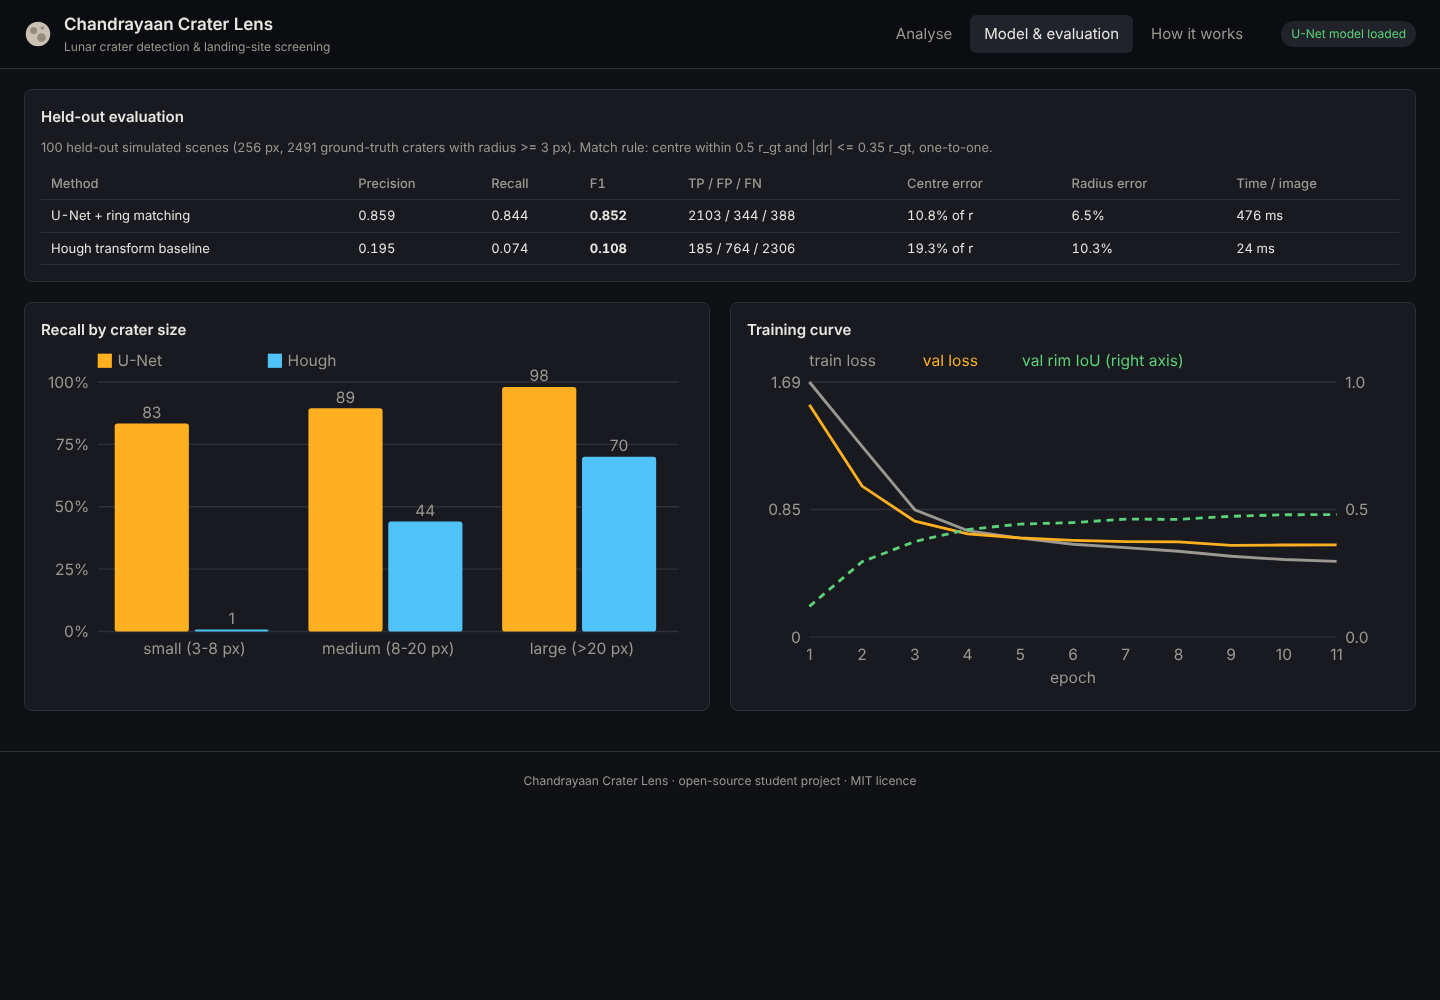
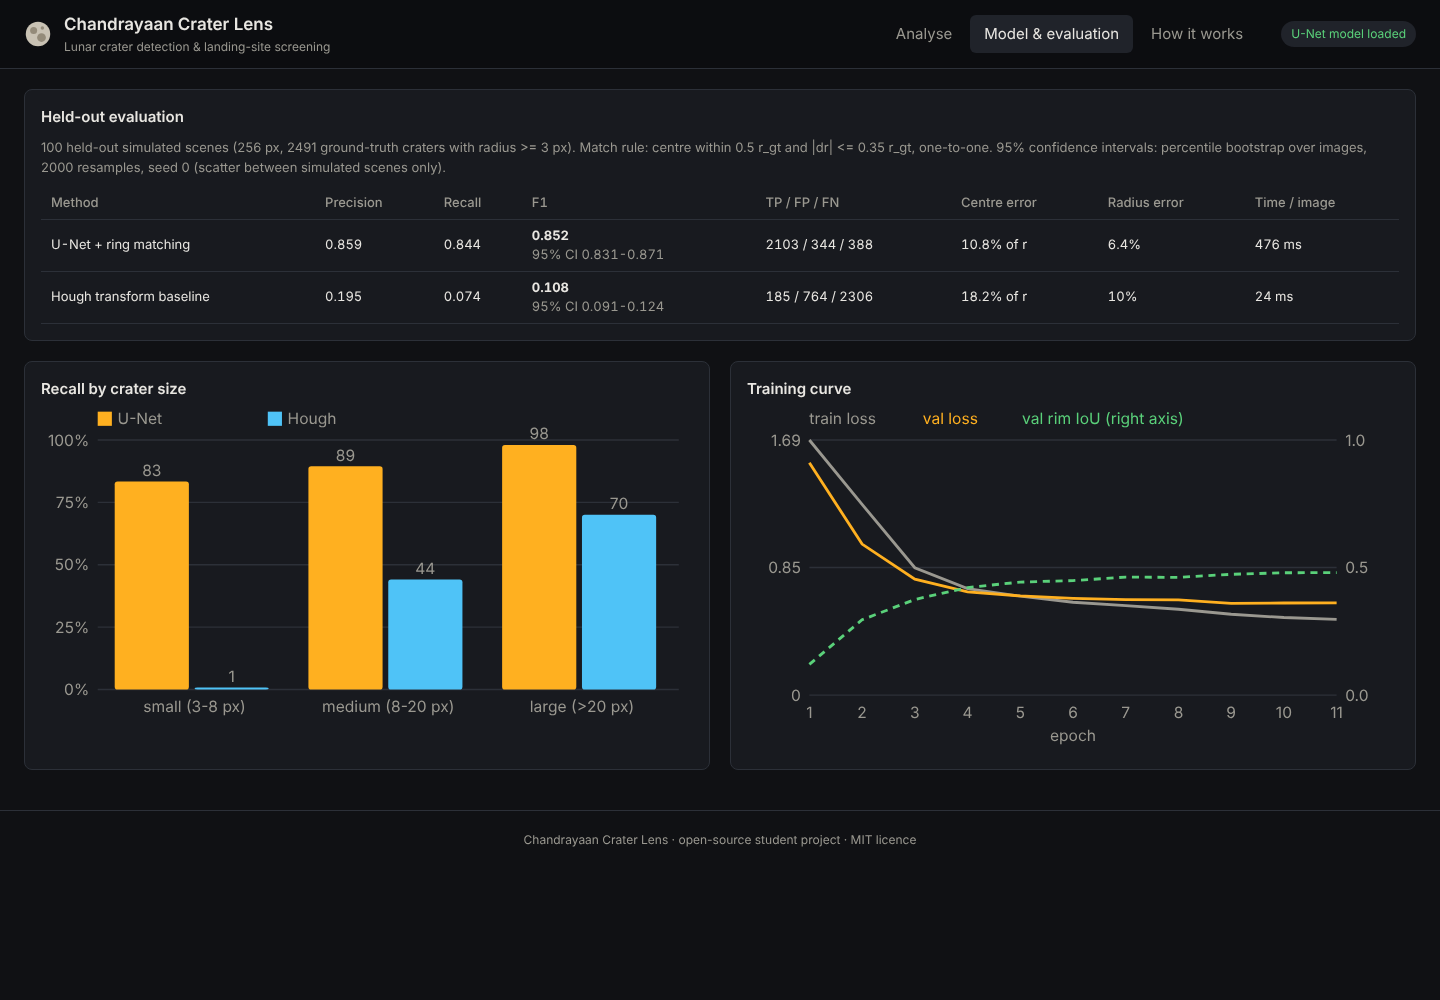
Audit evaluation metrics: add confidence intervals, val-split evaluation, pooled errors
- Re-ran the 100-scene held-out evaluation: TP/FP/FN, precision, recall, F1 and
  recall-by-size reproduce models/metrics.json exactly.
- metrics.summarize: centre/radius errors are now averaged over all matched craters
  (TP-weighted) instead of a mean of per-image means. U-Net 10.8%/6.5% -> 10.75%/6.44%,
  Hough 19.3%/10.3% -> 18.2%/10.0%. P/R/F1 unchanged.
- evaluate: 95% percentile-bootstrap CIs over images for P/R/F1; --split val and
  --min-confidence so thresholds can be checked on validation seeds, never on test.
- metrics.json regenerated (timings kept from the original run because the shared
  machine was heavily loaded during the re-run).
- README: CI column, threshold re-check table on validation scenes, Hough re-tuning
  check, radius-based size bins, timing caveat, and an in-distribution limitation.
- Model page shows the F1 CI; screenshot refreshed. 2 new tests (53 total).

Claude-Session: https://claude.ai/code/session_013tpD16K5jFZFsLFUPWL8Nk

diff --git a/app/static/app.js b/app/static/app.js
@@ -264,11 +264,11 @@ async function loadModel() {
     if (!ev) { $("#eval-desc").textContent = "No evaluation report yet. Run: python -m lunarcrater evaluate"; }
     else {
       const t = ev.test_set;
-      $("#eval-desc").textContent = `${t.images} held-out simulated scenes (${t.image_size_px} px, ${t.ground_truth_craters} ground-truth craters with radius >= ${t.min_radius_px} px). Match rule: ${t.match_rule}.`;
+      $("#eval-desc").textContent = `${t.images} held-out simulated scenes (${t.image_size_px} px, ${t.ground_truth_craters} ground-truth craters with radius >= ${t.min_radius_px} px). Match rule: ${t.match_rule}.${t.ci95 ? " 95% confidence intervals: " + t.ci95 + " (scatter between simulated scenes only)." : ""}`;
       const names = { unet: "U-Net + ring matching", hough: "Hough transform baseline" };
       const rows = Object.entries(ev.methods);
       $("#eval-table").innerHTML = "<thead><tr><th>Method</th><th>Precision</th><th>Recall</th><th>F1</th><th>TP / FP / FN</th><th>Centre error</th><th>Radius error</th><th>Time / image</th></tr></thead><tbody>" +
-        rows.map(([k, m]) => `<tr><td>${names[k] || k}</td><td>${fmt(m.precision, 3)}</td><td>${fmt(m.recall, 3)}</td><td><strong>${fmt(m.f1, 3)}</strong></td><td>${m.tp} / ${m.fp} / ${m.fn}</td><td>${m.mean_frac_err_xy === null ? "-" : fmt(m.mean_frac_err_xy * 100, 1) + "% of r"}</td><td>${m.mean_frac_err_r === null ? "-" : fmt(m.mean_frac_err_r * 100, 1) + "%"}</td><td>${fmt(m.mean_inference_ms, 0)} ms</td></tr>`).join("") + "</tbody>";
+        rows.map(([k, m]) => `<tr><td>${names[k] || k}</td><td>${fmt(m.precision, 3)}</td><td>${fmt(m.recall, 3)}</td><td><strong>${fmt(m.f1, 3)}</strong>${m.ci95 ? `<br><span class="muted">95% CI ${fmt(m.ci95.f1[0], 3)}-${fmt(m.ci95.f1[1], 3)}</span>` : ""}</td><td>${m.tp} / ${m.fp} / ${m.fn}</td><td>${m.mean_frac_err_xy === null ? "-" : fmt(m.mean_frac_err_xy * 100, 1) + "% of r"}</td><td>${m.mean_frac_err_r === null ? "-" : fmt(m.mean_frac_err_r * 100, 1) + "%"}</td><td>${fmt(m.mean_inference_ms, 0)} ms</td></tr>`).join("") + "</tbody>";
       renderRecall(rows);
     }
     renderTraining(d.training_history);

diff --git a/lunarcrater/evaluate.py b/lunarcrater/evaluate.py
@@ -1,4 +1,11 @@
-"""Evaluate detectors on held-out synthetic scenes (seeds never used in training)."""
+"""Evaluate detectors on held-out synthetic scenes (seeds never used in training).
+
+``split="test"`` (default) scores the test seeds that back ``models/metrics.json``.
+``split="val"`` scores validation seeds instead; use it to choose thresholds so the test
+scenes are never used for tuning.  Precision, recall and F1 come with 95 % bootstrap
+confidence intervals (images resampled with replacement), which describe the scatter
+between simulated scenes only, not the gap between simulated and real images.
+"""
 from __future__ import annotations
 
 import json
@@ -10,22 +17,52 @@ import numpy as np
 from .detect import CraterDetector, R_MIN
 from .metrics import match_craters, summarize
 from .synthetic import generate_scene
-from .train import TEST_SEED0
+from .train import TEST_SEED0, VAL_SEED0
 
-SIZE_BINS = [("small (3-8 px)", 3, 8), ("medium (8-20 px)", 8, 20), ("large (>20 px)", 20, 1e9)]
+SIZE_BINS = [("small (3-8 px)", 3, 8), ("medium (8-20 px)", 8, 20), ("large (>20 px)", 20, 1e9)]  # crater radius
+SPLITS = {"test": TEST_SEED0, "val": VAL_SEED0}
 
 
-def evaluate(n_images: int = 100, size: int = 256, methods=("unet", "hough"), detector: CraterDetector | None = None, log=print) -> dict:
+def bootstrap_ci(per_img: list[dict], n_boot: int = 2000, seed: int = 0) -> dict:
+    """95 % percentile bootstrap intervals for pooled precision, recall and F1 (resampling images)."""
+    tp = np.array([r["tp"] for r in per_img], float)
+    fp = np.array([r["fp"] for r in per_img], float)
+    fn = np.array([r["fn"] for r in per_img], float)
+    rng = np.random.default_rng(seed)
+    idx = rng.integers(0, len(per_img), size=(n_boot, len(per_img)))
+    T, P, N = tp[idx].sum(1), fp[idx].sum(1), fn[idx].sum(1)
+    with np.errstate(invalid="ignore", divide="ignore"):
+        prec = np.where(T + P > 0, T / (T + P), 0.0)
+        rec = np.where(T + N > 0, T / (T + N), 0.0)
+        f1 = np.where(prec + rec > 0, 2 * prec * rec / (prec + rec), 0.0)
+    return {k: [round(float(np.percentile(v, 2.5)), 4), round(float(np.percentile(v, 97.5)), 4)] for k, v in (("precision", prec), ("recall", rec), ("f1", f1))}
+
+
+def evaluate(
+    n_images: int = 100,
+    size: int = 256,
+    methods=("unet", "hough"),
+    detector: CraterDetector | None = None,
+    split: str = "test",
+    min_confidence: float = 0.6,
+    log=print,
+) -> dict:
+    if split not in SPLITS:
+        raise ValueError(f"split must be one of {tuple(SPLITS)}")
+    seed0 = SPLITS[split]
     det = detector or CraterDetector()
-    scenes = [generate_scene(size, seed=TEST_SEED0 + i) for i in range(n_images)]
+    scenes = [generate_scene(size, seed=seed0 + i) for i in range(n_images)]
     report: dict = {
         "test_set": {
+            "split": split,
             "images": n_images,
             "image_size_px": size,
-            "seed_range": [TEST_SEED0, TEST_SEED0 + n_images - 1],
+            "seed_range": [seed0, seed0 + n_images - 1],
             "ground_truth_craters": int(sum(len(s.craters) for s in scenes)),
             "min_radius_px": R_MIN,
             "match_rule": "centre within 0.5 r_gt and |dr| <= 0.35 r_gt, one-to-one",
+            "min_confidence": min_confidence,
+            "ci95": "percentile bootstrap over images, 2000 resamples, seed 0",
         },
         "methods": {},
     }
@@ -37,7 +74,7 @@ def evaluate(n_images: int = 100, size: int = 256, methods=("unet", "hough"), de
         bins = {name: [0, 0] for name, _, _ in SIZE_BINS}  # found, total
         for sc in scenes:
             t = time.perf_counter()
-            pred, _ = det.detect(sc.image, method=method)
+            pred, _ = det.detect(sc.image, method=method, min_confidence=min_confidence)
             times.append(time.perf_counter() - t)
             res = match_craters(pred, sc.craters)
             per_img.append(res)
@@ -48,6 +85,7 @@ def evaluate(n_images: int = 100, size: int = 256, methods=("unet", "hough"), de
                         bins[name][1] += 1
                         bins[name][0] += int(j in matched_gt)
         summary = summarize(per_img)
+        summary["ci95"] = bootstrap_ci(per_img)
         summary["recall_by_size"] = {k: (round(f / t, 4) if t else None) for k, (f, t) in bins.items()}
         summary["mean_inference_ms"] = round(1000 * float(np.mean(times)), 1)
         report["methods"][method] = summary

diff --git a/lunarcrater/cli.py b/lunarcrater/cli.py
@@ -76,7 +76,9 @@ def main(argv: list[str] | None = None) -> int:
     e = sub.add_parser("evaluate", help="evaluate detectors on held-out synthetic scenes")
     e.add_argument("--images", type=int, default=100)
     e.add_argument("--model", default=None)
-    e.add_argument("--out", default=str(ROOT / "models" / "metrics.json"))
+    e.add_argument("--split", choices=["test", "val"], default="test", help="val = validation seeds, for choosing thresholds")
+    e.add_argument("--min-confidence", type=float, default=0.6)
+    e.add_argument("--out", default=None, help="default: models/metrics.json (test) or models/metrics_val.json (val)")
 
     d = sub.add_parser("detect", help="detect craters in an image (PNG/JPG/TIFF or PDS4 .xml label)")
     d.add_argument("image")
@@ -106,9 +108,10 @@ def main(argv: list[str] | None = None) -> int:
     if args.cmd == "evaluate":
         from .evaluate import evaluate, write_report
 
-        rep = evaluate(n_images=args.images, detector=CraterDetector(args.model))
-        write_report(rep, args.out)
-        print(f"report written to {args.out}")
+        out = args.out or str(ROOT / "models" / ("metrics.json" if args.split == "test" else "metrics_val.json"))
+        rep = evaluate(n_images=args.images, detector=CraterDetector(args.model), split=args.split, min_confidence=args.min_confidence)
+        write_report(rep, out)
+        print(f"report written to {out}")
         return 0
 
     if args.cmd == "detect":

diff --git a/lunarcrater/metrics.py b/lunarcrater/metrics.py
@@ -60,8 +60,11 @@ def summarize(results: list[dict]) -> dict:
     precision = tp / (tp + fp) if tp + fp else 0.0
     recall = tp / (tp + fn) if tp + fn else 0.0
     f1 = 2 * precision * recall / (precision + recall) if precision + recall else 0.0
-    exy = [r["frac_err_xy"] for r in results if r["frac_err_xy"] is not None]
-    er = [r["frac_err_r"] for r in results if r["frac_err_r"] is not None]
+    # Localisation errors are averaged over all matched craters (each image's mean is
+    # weighted by its number of matches), not as a mean of per-image means.
+    matched = [r for r in results if r["tp"] and r["frac_err_xy"] is not None]
+    exy = sum(r["frac_err_xy"] * r["tp"] for r in matched) / tp if matched else None
+    er = sum(r["frac_err_r"] * r["tp"] for r in matched) / tp if matched else None
     return {
         "images": len(results),
         "tp": tp,
@@ -70,8 +73,8 @@ def summarize(results: list[dict]) -> dict:
         "precision": round(precision, 4),
         "recall": round(recall, 4),
         "f1": round(f1, 4),
-        "mean_frac_err_xy": round(float(np.mean(exy)), 4) if exy else None,
-        "mean_frac_err_r": round(float(np.mean(er)), 4) if er else None,
+        "mean_frac_err_xy": round(float(exy), 4) if exy is not None else None,
+        "mean_frac_err_r": round(float(er), 4) if er is not None else None,
     }
 
 

diff --git a/tests/test_extract_metrics.py b/tests/test_extract_metrics.py
@@ -51,3 +51,29 @@ def test_pixel_scores():
     m = np.zeros((10, 10), np.uint8)
     m[2:5, 2:5] = 1
     assert pixel_scores(m.astype(float), m)["iou"] == 1.0
+
+
+def test_summarize_pools_errors_over_matched_craters():
+    # 1 match with 40 % error and 9 matches with 10 %: the crater-level mean is 13 %, not (40 + 10) / 2.
+    s = summarize(
+        [
+            {"tp": 1, "fp": 0, "fn": 0, "frac_err_xy": 0.4, "frac_err_r": 0.2},
+            {"tp": 9, "fp": 0, "fn": 0, "frac_err_xy": 0.1, "frac_err_r": 0.0},
+            {"tp": 0, "fp": 3, "fn": 1, "frac_err_xy": None, "frac_err_r": None},
+        ]
+    )
+    assert s["mean_frac_err_xy"] == 0.13 and s["mean_frac_err_r"] == 0.02
+
+
+def test_evaluate_val_split_and_confidence_intervals():
+    from lunarcrater.evaluate import bootstrap_ci, evaluate
+    from lunarcrater.train import VAL_SEED0
+
+    rep = evaluate(n_images=3, methods=("hough",), split="val", log=lambda *_: None)
+    assert rep["test_set"]["split"] == "val" and rep["test_set"]["seed_range"] == [VAL_SEED0, VAL_SEED0 + 2]
+    m = rep["methods"]["hough"]
+    for k in ("precision", "recall", "f1"):
+        lo, hi = m["ci95"][k]
+        assert 0.0 <= lo <= hi <= 1.0
+    ci = bootstrap_ci([{"tp": 5, "fp": 0, "fn": 0}] * 4)
+    assert ci["precision"] == [1.0, 1.0] and ci["f1"] == [1.0, 1.0]

diff --git a/README.md b/README.md
@@ -191,21 +191,51 @@ Training, validation and test scenes come from disjoint seed ranges, so the test
 
 Measured with `python -m lunarcrater evaluate` on **100 held-out simulated 256 × 256 scenes**
 (2,491 ground-truth craters, radius ≥ 3 px). A detection counts as correct when its centre is within 0.5 r and
-its radius within 35 % of a ground-truth crater (one-to-one matching). The full report is in
-[`models/metrics.json`](models/metrics.json).
+its radius within 35 % of a ground-truth crater (one-to-one matching). Precision, recall and F1 are pooled over all
+craters of the 100 scenes. The full report is in [`models/metrics.json`](models/metrics.json).
 
-| Method | Precision | Recall | F1 | TP / FP / FN | Centre error | Radius error | Time / 256² image* |
-|--------|-----------|--------|----|--------------|--------------|--------------|------------------|
-| **U-Net + ring matching** | **0.859** | **0.844** | **0.852** | 2103 / 344 / 388 | 10.8 % of r | 6.5 % | 476 ms |
-| Hough transform baseline | 0.195 | 0.074 | 0.108 | 185 / 764 / 2306 | 19.3 % of r | 10.3 % | 24 ms |
+| Method | Precision | Recall | F1 (95 % CI†) | TP / FP / FN | Centre error‡ | Radius error‡ | Time / 256² image* |
+|--------|-----------|--------|---------------|--------------|---------------|---------------|------------------|
+| **U-Net + ring matching** | **0.859** | **0.844** | **0.852** (0.831-0.871) | 2103 / 344 / 388 | 10.8 % of r | 6.4 % | 476 ms |
+| Hough transform baseline | 0.195 | 0.074 | 0.108 (0.091-0.124) | 185 / 764 / 2306 | 18.2 % of r | 10.0 % | 24 ms |
 
-Recall by crater size (U-Net / Hough): small 3-8 px **0.83** / 0.01 · medium 8-20 px **0.89** / 0.44 · large > 20 px **0.98** / 0.70.
+Recall by crater **radius** (U-Net / Hough): small 3-8 px **0.83** / 0.01 · medium 8-20 px **0.89** / 0.44 · large ≥ 20 px **0.98** / 0.70.
 
-\* CPU time on a shared 4-core cloud machine, so expect it to vary.
+† Percentile bootstrap over the 100 test images (2,000 resamples). It shows how much the score moves from one set of
+simulated scenes to another. It does **not** cover the gap between simulated and real images. Precision CI: U-Net
+0.835-0.884, Hough 0.164-0.229. Recall CI: U-Net 0.821-0.868, Hough 0.062-0.086. Scores also vary a lot between
+single images: the per-image U-Net F1 has a median of 0.85 but drops to 0.44 on the hardest test scene.
+
+‡ Mean over all matched craters, as a fraction of the true radius. Before 25 Nov 2026 this was a mean of per-image
+means (U-Net 10.8 % / 6.5 %, Hough 19.3 % / 10.3 %); precision, recall and F1 were not affected.
+
+\* `mean_inference_ms` in `metrics.json` is wall-clock CPU time per image, including the ½-scale pyramid level.
+It depends heavily on the machine and on what else is running. On the shared 4-core cloud machines used for this
+project the U-Net took between about 140 ms and 480 ms per image when the machine was quiet, and the Hough baseline
+about 25 ms. The stored values (U-Net 476 ms, Hough 24 ms) are from the original evaluation run. The 25 Nov 2026
+re-run reproduced every accuracy number exactly, but the machine was busy with other jobs and measured 1.7-2.0 s
+per U-Net image, so its timings were not stored. Treat the timing as an example, not a benchmark.
 
 The Hough transform fails mostly on small craters: under a low sun a crater looks like a crescent of shadow beside a
-crescent of light, not a closed circular edge. The U-Net learns that pattern. The detection thresholds (ring match
-≥ 0.5, rim confidence ≥ 0.6) were chosen on **validation** scenes, not on the test scenes.
+crescent of light, not a closed circular edge. The U-Net learns that pattern. The baseline is not a straw man: a
+re-tuning sweep of 36 Hough settings (Canny threshold, accumulator threshold, `dp`, blur) on 100 **validation**
+scenes found no setting above F1 0.106 there, and the best of them scored F1 0.124 on the test scenes, inside the
+confidence interval above. The shipped settings are kept.
+
+**Thresholds.** The U-Net detection thresholds (ring match ≥ 0.5, rim confidence ≥ 0.6) were not tuned on the test
+scenes. The original tuning run was not saved, so they were re-checked on 100 **validation** scenes (seeds
+10,000,000-10,000,099, rendered at 256 px) with `python -m lunarcrater evaluate --split val --min-confidence C`
+(ring match changed in code):
+
+| Rim confidence → / ring match ↓ | 0.5 | 0.6 (default) | 0.7 |
+|------|------|------|------|
+| 0.4 | 0.803 | 0.816 | 0.827 |
+| **0.5 (default)** | 0.831 | **0.838** | 0.843 |
+| 0.6 | 0.736 | 0.736 | 0.737 |
+
+(validation F1). Ring match 0.5 is clearly best. Rim confidence 0.7 is 0.005 higher than the default 0.6, which is
+well inside the scatter shown by the confidence interval, so 0.6 is kept because it finds more craters
+(validation recall 0.822 vs 0.813). In the app you can raise the minimum rim confidence yourself.
 
 Training (CPU only, about 1 h in total on a shared 4-core machine). **Stage 1:** AdamW with a one-cycle schedule
 (peak learning rate 2e-3, 1,600 scenes of 160 × 160 px per epoch, planned for 16 epochs). The run was stopped after
@@ -234,7 +264,7 @@ python -m lunarcrater evaluate --images 100 --model models/crater_unet_ft.pt
 ```bash
 python -m lunarcrater make-samples                     # regenerate samples/ (deterministic)
 python -m lunarcrater train [--epochs N --train-size N]
-python -m lunarcrater evaluate [--images N]
+python -m lunarcrater evaluate [--images N] [--split test|val] [--min-confidence 0.6]
 python -m lunarcrater detect IMAGE --mpp 5 [--method unet|hough] [--min-confidence 0.6]
                              [--footprint 10] [--csv out.csv] [--json out.json] [--annotated out.png]
 ```
@@ -268,7 +298,7 @@ python -m pytest
 
 The same suite runs automatically on GitHub Actions for every push (`.github/workflows/tests.yml`).
 
-The suite has 51 tests. They cover the simulator, a one-epoch training and fine-tuning run, the train/validation/test seed split, ring extraction, the matching metrics, the image loaders
+The suite has 53 tests. They cover the simulator, a one-epoch training and fine-tuning run, the train/validation/test seed split, ring extraction, the matching metrics and their bootstrap confidence intervals, the image loaders
 (including PDS4), the analysis maths, the detector (an untrained model for shape and tiling checks, plus a
 regression check that the shipped weights reach F1 > 0.5 on held-out scenes), every API endpoint and its error
 cases (including a corrupt model file, which gives a clear 503 instead of a crash), the CLI, and the tiling script.
@@ -319,6 +349,12 @@ framework, no build) · pytest.
   lacks: secondary crater chains, boulders, complex craters with central peaks, permanently shadowed regions and
   camera artefacts. Expect more false positives and misses on real data until the model is fine-tuned on labelled
   real tiles.
+* **Simulated, in-distribution test set.** The test scenes come from the same simulator as the training scenes
+  (different seeds, same physics and same image statistics). The test F1 of 0.85 therefore says how well the
+  network learned the simulator. Accuracy on real images is likely to be lower, and it has not been measured.
+  The ground truth also follows the simulator's rules: only craters with radius ≥ 3 px, a centre inside the frame
+  and enough relief to be visible are labelled, so a detection of a very faint simulated crater counts as a false
+  positive.
 * **Size range.** Craters smaller than about 6 px across (r < 3 px) are not detected. The pyramid reaches large
   craters only if the image is at least 2-4 × their diameter.
 * **Landing map.** A single image has no elevation, so roughness is a brightness-based proxy. Real landing-site
